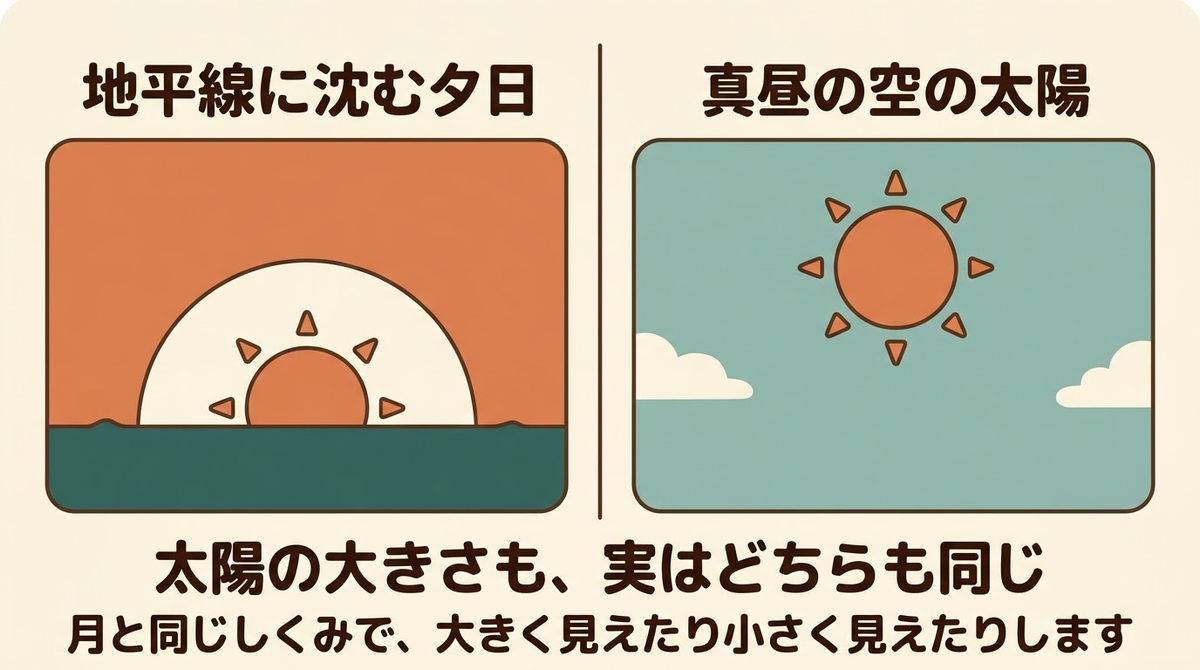
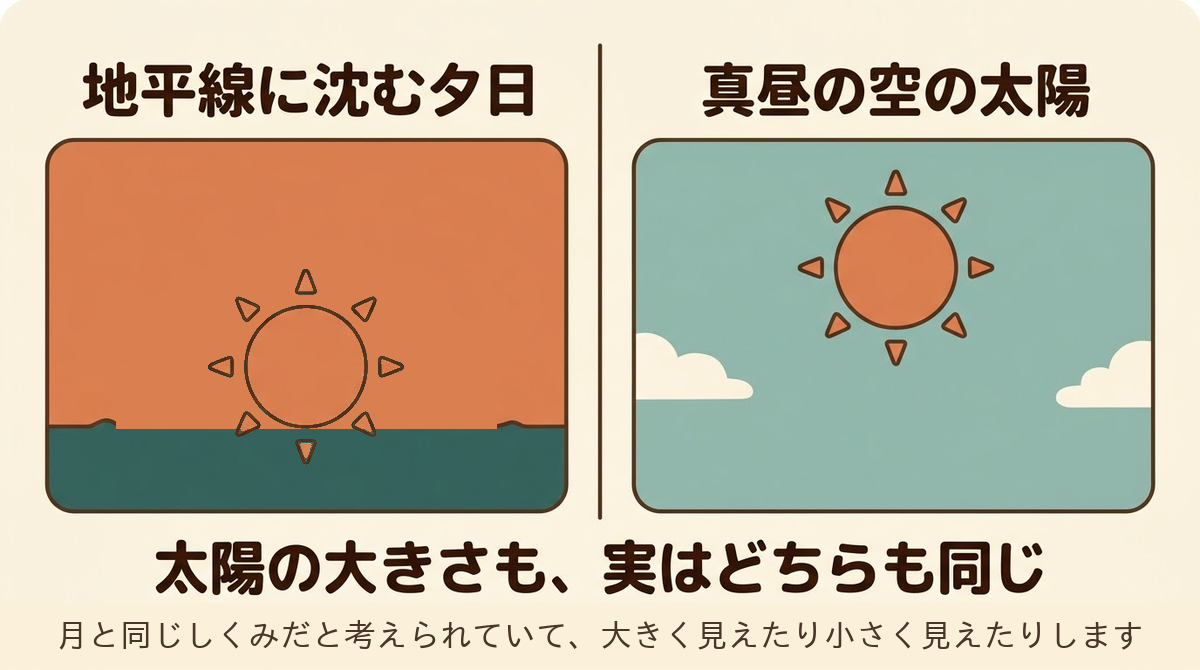
fix: tsuki-no-sakushi のOpus QA指摘(FAIL 2件)を反映
- illustrations/taiyou-sakushi.png: 左パネルの巨大なクリーム色の「グロー」円が
  太陽本体と誤読され、右パネルの太陽の約4倍の大きさに見える状態だった。
  ドーム型のグローを消去し、右パネルの太陽+光線アイコンを同じサイズのまま
  左パネルの水平線上に再配置して、両方の太陽が完全に同一であることを保証した。
  下部キャプションも「月と同じしくみで」→「月と同じしくみだと考えられていて」
  に和らげ、本文の「同じ現象だと考えられています」という保留表現と揃えた。
- 本文: 股のぞきの記述(L60/62/64相当)を修正。「景色も距離感も変わっていない
  のに」という、見かけの距離説を暗に否定する出典のない前提を削除。「どちらの
  説でも説明できない」という研究状況についての断定を、既に出典のある「まだ
  解明されていない」という全体の結論の枠内に収まる表現に和らげた。
- 87〜89行目の注記が「ページ全文には至れていません。」という主語のない
  文断片として孤立していたのを、直前の文に統合。
- 「FUJIなごや科学館」の正式名称が未確認である旨、太陽を直接見ないよう
  注意する一文を追加。
- paste-guide.mdの工程状況をpaywall-judge実施済み・note-qa 1回目実施済みに更新。

Claude-Session: https://claude.ai/code/session_01TWidCKxYRSv1cKMf351cv5

Changed region(s): [[0.0925, 0.3881, 0.4317, 0.6866], [0.0308, 0.8955, 0.9558, 0.9851]]

diff --git a/articles/tsuki-no-sakushi.md b/articles/tsuki-no-sakushi.md
@@ -57,17 +57,19 @@
 　
 見かけの距離説は、これと似たしくみで月の錯視が起きていると考えます。
 　
-ただし、どちらの説にも、うまく説明できない場面があります。
+ただし、この2つの説だけで、月の錯視のすべてが説明できるわけではなさそうです。
 　
-体を反対向きにして、股のぞきで地平線の月を見ると、大きく見えていたはずの月が、急に小さく見えることが知られています。景色も距離感も変わっていないのに、姿勢を変えただけで見え方が変わるのです。
+体を反対向きにして、股のぞきで地平線の月を見ると、大きく見えていたはずの月が、急に小さく見えることが知られています。姿勢を変えただけなのに、見え方が変わるのです。
 　
-この股のぞきの現象まできれいに説明できる説は、まだ見つかっていないようです。「これが正解」という答えに、研究はまだたどりついていません。
+この股のぞきの現象がなぜ起きるのかも、はっきりとはわかっていません。「これが正解」という答えに、研究はまだたどりついていないようです。
 　
 ## 太陽でも、同じことが起きている
 　
 この錯視は、月だけのものではありません。
 　
 夕方、地平線近くに沈む太陽が、真昼の太陽より大きく見えることがありますよね。これも、月の錯視と同じ現象だと考えられています。
+　
+(太陽を観察するときは、直接目で見ないように気をつけてくださいね。)
 　
 星座の並びも、地平線近くにあるときのほうが、大きく間延びして見えることがあるそうです。
 　
@@ -84,11 +86,11 @@
 - 日本語版Wikipedia「月の錯視」 https://ja.wikipedia.org/wiki/%E6%9C%88%E3%81%AE%E9%8C%AF%E8%A6%96
 - 日本語版Wikipedia「ポンゾ錯視」 https://ja.wikipedia.org/wiki/%E3%83%9D%E3%83%B3%E3%82%BE%E9%8C%AF%E8%A6%96
 　
-※ この環境はネットワーク制約により、国立天文台・姫路科学館・なごや科学館の各ページへ直接アクセスすることができませんでした。内容は検索エンジンが返す本文抜粋・要約を通じて確認しており、複数の独立した媒体(国立天文台、姫路科学館、なごや科学館)で共通して説明されている点(実際の視角はほぼ変わらないこと、五円玉や小指を使った確認方法、原因がまだ解明されていないこと)を中心に本文へ反映しています。
-　
-ページ全文には至れていません。
+※ この環境はネットワーク制約により、国立天文台・姫路科学館・なごや科学館の各ページへ直接アクセスすることができず、ページ全文には至れていません。内容は検索エンジンが返す本文抜粋・要約を通じて確認しており、複数の独立した媒体(国立天文台、姫路科学館、なごや科学館)で共通して説明されている点(実際の視角はほぼ変わらないこと、五円玉や小指を使った確認方法、原因がまだ解明されていないこと)を中心に本文へ反映しています。
 　
 ※ 「比較対象説(ポンゾ錯視に近い考え方)」「見かけの距離説」は、検索で得られた複数の解説記事・辞典的な記述で共通して紹介されている代表的な説として扱っていますが、これ以外にも研究者によって異なる分類・呼び方がある可能性があります。「決定打に欠ける」「まだ決着していない」という表現は、国立天文台 暦計算室のページ内容として検索結果に示されていたものです。
+　
+※ 「FUJIなごや科学館」という媒体名は検索結果に基づく表記です。ネーミングライツ等により名称が変更されている可能性があり、この環境では正式名称を直接確認できていません。投稿前に媒体名の表記をご確認ください。
 　
 ※ 股のぞきをすると月が小さく見える、という現象については、心理学分野の解説記事で言及を確認しましたが、今回原著論文までは確認できませんでした。現象の存在自体は複数の解説記事で一致しています。
 　
